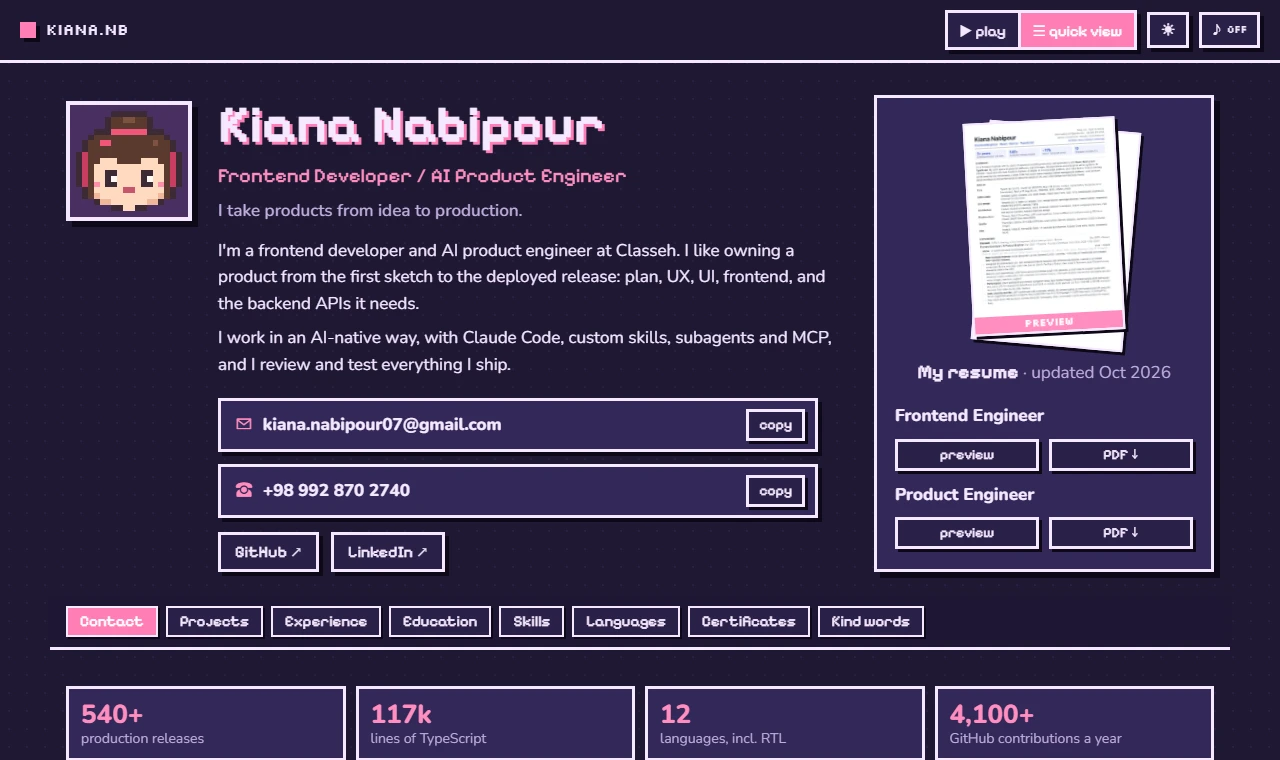
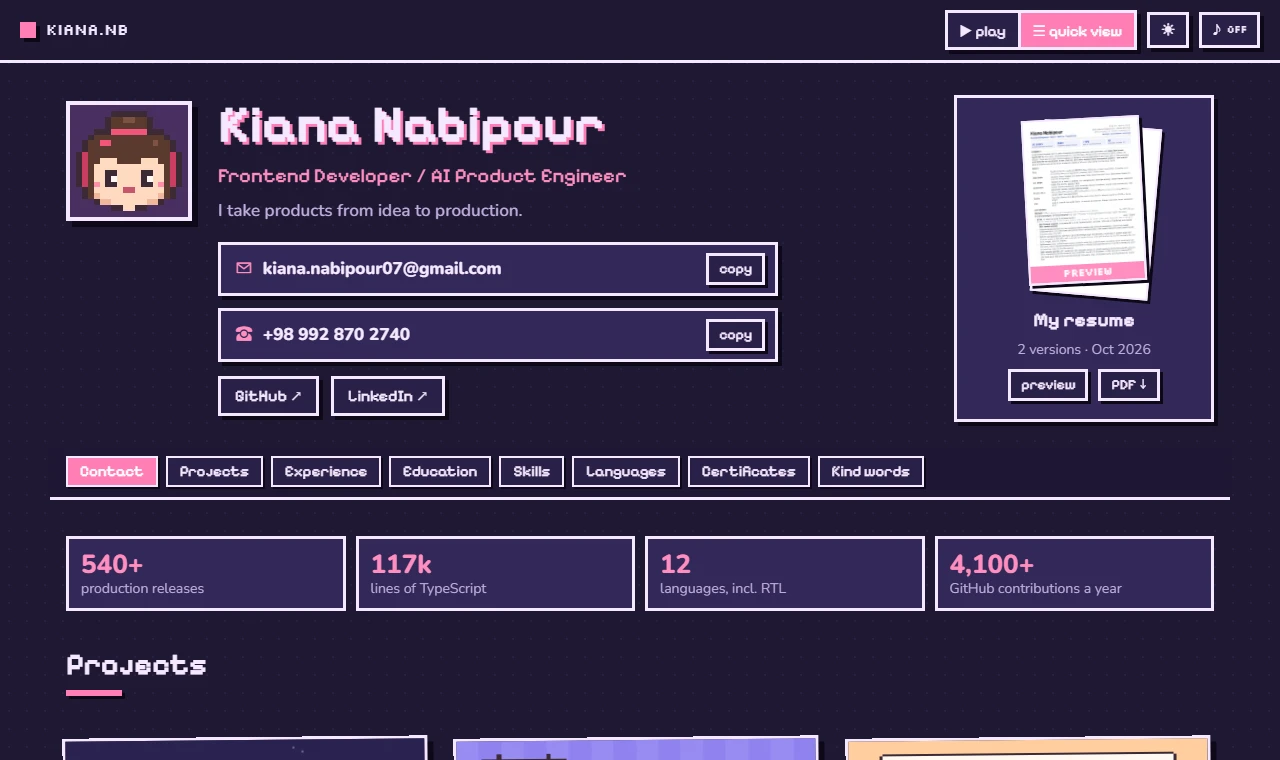
docs(readme): refresh the quick view and resume shots

diff --git a/README.md b/README.md
@@ -47,7 +47,7 @@ Everything in the room is something you can poke. The journal is my about page, 
     <td><b>Project cartridges</b> boot on the CRT. Each project has its own animated pixel cover, drawn in code.</td>
   </tr>
   <tr>
-    <td><img src="docs/shots/quick-view.webp" alt="The quick view: my portrait, name, a short intro, contact details and a resume card"></td>
+    <td><img src="docs/shots/quick-view.webp" alt="The quick view: my portrait, name, contact details and a resume card"></td>
     <td><img src="docs/shots/resume.webp" alt="The resume preview window showing page one of my resume, with buttons to switch version, zoom, open and download the PDF"></td>
   </tr>
   <tr>
